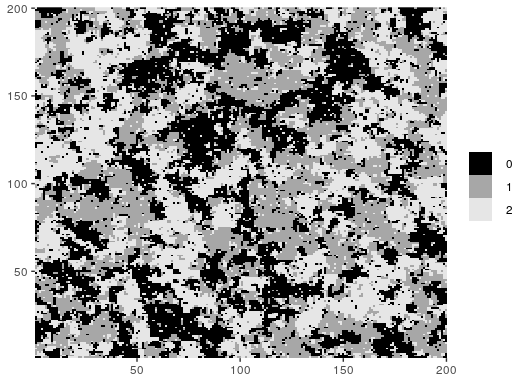
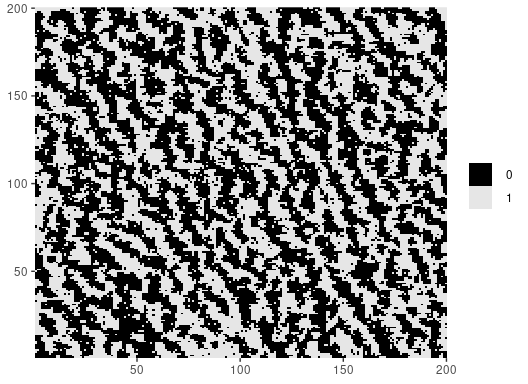
Improved documentation

diff --git a/README.md b/README.md
@@ -24,10 +24,10 @@ defined based on their relative positions to construct a MRF.
 
 <img src="man/figures/animation_ising.gif" alt="drawing" width="300" align="left" />
 
-The goal of `mrf2d` is to provide simple functions for sampling and
-analysis of Markov Random Fields on 2-dimensional lattices, including
-Hidden Markov Random Fields. It introduces the S4 class `mrfi` to
-describe interaction structures in a very general way, being able to
+The goal of `mrf2d` is to provide a framework for the analysis of Markov
+Random Fields with pairwise interactions on 2-dimensional lattices,
+including Hidden Markov Random Fields. It introduces the S4 class `mrfi`
+to describe interaction structures in a very general way, being able to
 adapt from very simple cases like the Ising Model to complex anisotropic
 models with different types of interaction.
 
@@ -37,7 +37,7 @@ models with different types of interaction.
 
 ## Installation
 
-You can install the released version of mrf2d from
+You can install the stable version of `mrf2d` from
 [CRAN](https://CRAN.R-project.org) with:
 
 ``` r
@@ -54,101 +54,77 @@ devtools::install_github("Freguglia/mrf2d")
 
 -----
 
-## Example
+## Usage
 
-This is an example of what type of analysis you can do with `mrf2d`.
-More features are also present, including estimation of parameter in
-Markov Random Fields, families of parameter restrictions and more. Read
-the package’s
-[vignette](https://freguglia.github.io/mrf2d/articles/mrf2d.html) for
-more information and detailed description of the functions used:
-`browseVignettes("mrf2d")`.
+`mrf2d` introduces a programming interface for the general Markov Random
+Field model in *Freguglia, Victor, Nancy L. Garcia, and Juliano L.
+Bicas. “Hidden Markov random field models applied to color homogeneity
+evaluation in dyed textile images.” Environmetrics (2019): e2613.* Using
+specific interaction structures and parameter restrictions can lead to
+important models as particular cases, such as the Potts model.
 
-We can define an interaction structure with the `mrfi()` function:
+It introduces the S4 class `mrfi` to represent interaction structures.
+The `mrfi()` function can be used to create these objects representing
+interaction structures with relative positions included based on norm or
+explicitly specified
 
 ``` r
 # We'll include dependence in nearest-neighbors only
-int <- mrfi(max_norm = 1)
-int
-#> 2 interacting positions.
+interact <- mrfi(max_norm = 1, positions = list(c(4,2)))
+interact
+#> 3 interacting positions.
 #>   rx     ry
 #>    1      0
 #>    0      1
-plot(int)
+#>    4      2
+plot(interact)
 ```
 
 ![](man/figures/README-plot_interaction-1.png)<!-- -->
 
-We can define a parameter array to sample from a MRF model:
+Potentials (parameters) are represented by three-dimensional arrays,
+where rows and columns represent pixel label values and slices represent
+interacting positions.
 
 ``` r
-# We have 2 interacting positions and we'll use a 3 color model, therefore,
-# an array with dimensions (3,3,3) is used.
-theta <- mrf2d:::vec_to_array(-1, family = "onepar", C = 2, n_R = 2)
-theta
-#> , , 1
+potentials <- expand_array(c(-0.9, -0.9, 0.2), family = "oneeach", C = 1, mrfi = interact)
+potentials
+#> , , (1,0)
 #> 
-#>    0  1  2
-#> 0  0 -1 -1
-#> 1 -1  0 -1
-#> 2 -1 -1  0
+#>      0    1
+#> 0  0.0 -0.9
+#> 1 -0.9  0.0
 #> 
-#> , , 2
+#> , , (0,1)
 #> 
-#>    0  1  2
-#> 0  0 -1 -1
-#> 1 -1  0 -1
-#> 2 -1 -1  0
+#>      0    1
+#> 0  0.0 -0.9
+#> 1 -0.9  0.0
+#> 
+#> , , (4,2)
+#> 
+#>     0   1
+#> 0 0.0 0.2
+#> 1 0.2 0.0
 ```
 
-In short, the negative values out of diagonal means different “colors”
-are less likely in that relative position. We can sample from this model
-with:
+The negative values out of diagonal means different “colors” are less
+likely in that relative position.
+
+The package has many built-in functions for sampling, potentials
+estimation and hidden MRF model fitting (used for image segmentation),
+but it also provides all the basic stack of computations used to
+implement algorithms for MRF models, making it suitable for development
+of research in Markov Random Field models.
 
 ``` r
 set.seed(1)
 img_dim <- c(200,200)
-Z <- rmrf2d(img_dim, mrfi = int, theta = theta, cycles = 60)
+Z <- rmrf2d(img_dim, mrfi = interact, theta = potentials, cycles = 60)
 dplot(Z, legend = TRUE)
 ```
 
 <img src="man/figures/README-Z_example_plot-1.png" style="display: block; margin: auto;" />
-
-We now add a Gaussian error and a linear effect to the image (to create
-a hidden Markov Random Field):
-
-``` r
-set.seed(1)
-Y <- Z + 4 + 0.02*row(Z) + rnorm(length(Z), sd = 0.4)
-cplot(Y)
-```
-
-<img src="man/figures/README-Y_example_plot-1.png" style="display: block; margin: auto;" />
-
-We fit a Gaussian hidden Markov random field to recover the components:
-
-``` r
-set.seed(3)
-fit <- fit_ghm(Y, mrfi = int, theta = theta, 
-               fixed_fn = polynomial_2d(c(1,1), dim(Y)), verbose = FALSE)
-```
-
-Check the results:
-
-``` r
-fit$par
-#>         mu    sigma
-#> 0 6.010691 0.400807
-#> 1 7.011794 0.400807
-#> 2 8.013461 0.400807
-
-library(ggplot2)
-cplot(fit$fixed) + ggtitle("Linear Effect")
-dplot(fit$Z_pred, legend = TRUE) + ggtitle("Predicted Z")
-cplot(fit$predicted) + ggtitle("Predicted Value")
-```
-
-![](man/figures/README-results_plot-1.png)![](man/figures/README-results_plot-2.png)![](man/figures/README-results_plot-3.png)
 
 -----
 
